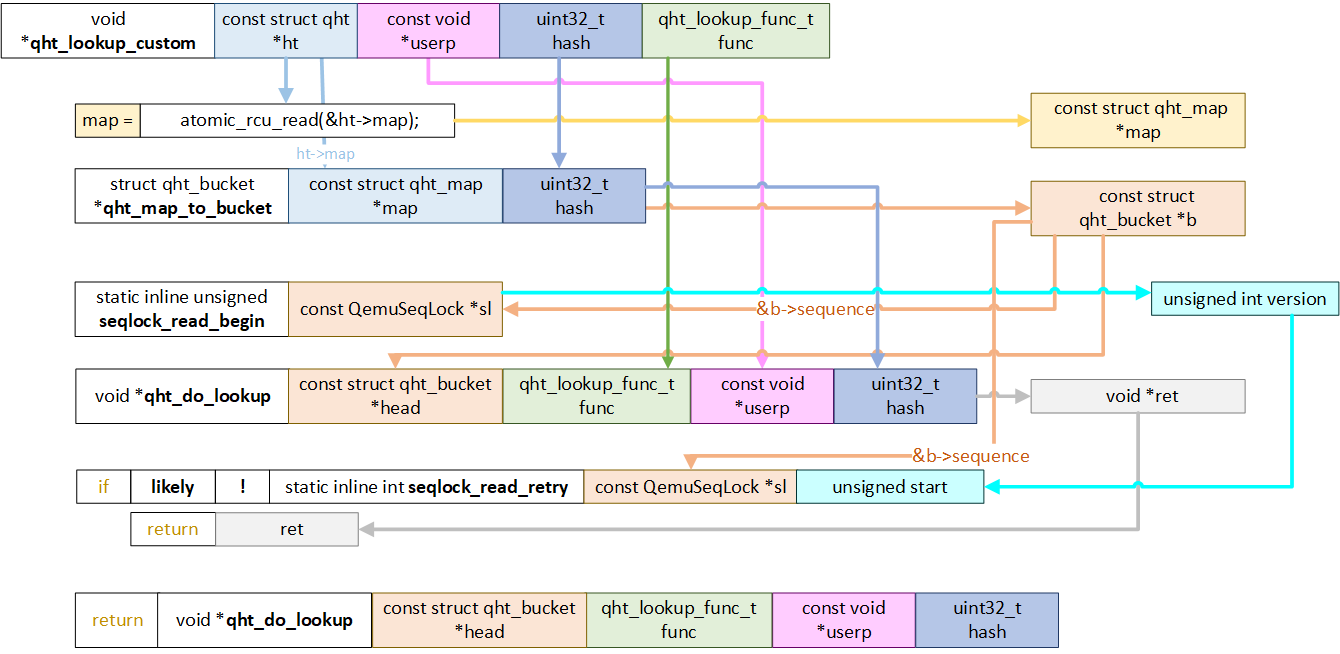
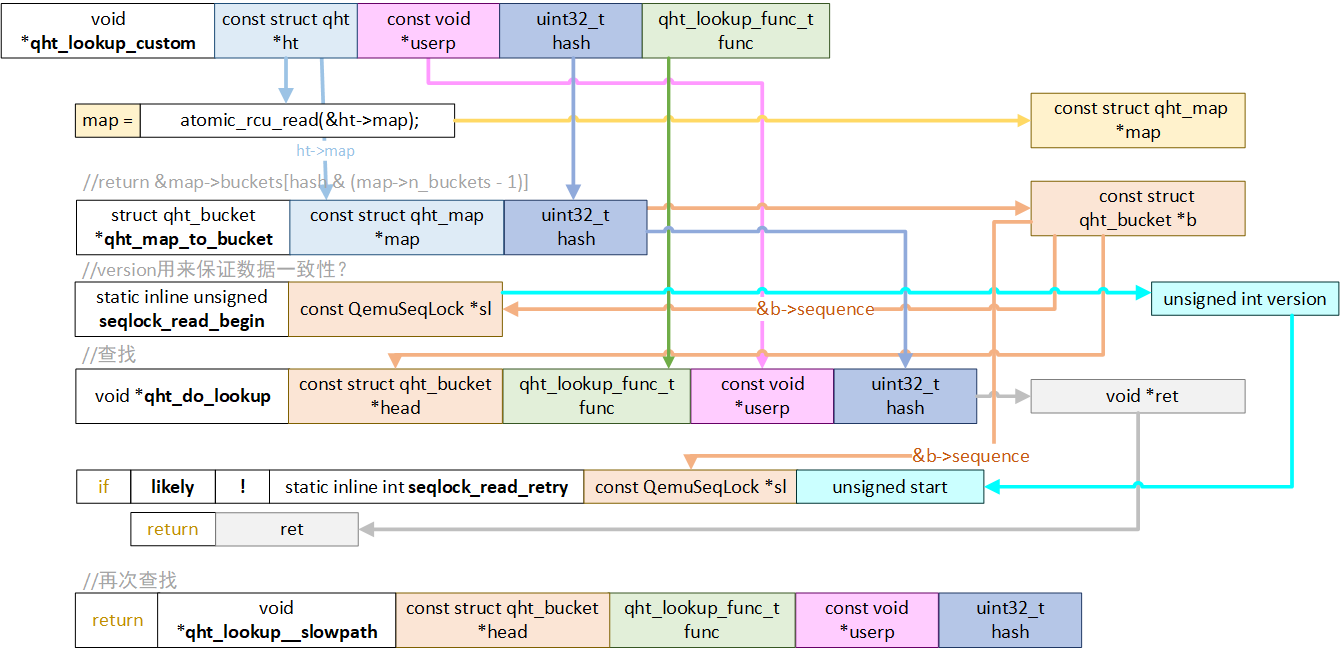
2020/11/10

diff --git a/Notes.md b/Notes.md
@@ -166,15 +166,63 @@ setjmp->while(!cpu_handle_exception)->while(!cpu_handle_interruption)->tb_find->
 
 ``htable``中最重要的部分应该是``struct qht_map *map``了，``map``有哈希桶头指针，可以通过偏移访问到hash值对应的哈希桶，其中``n_buckets``指明了有目前哈希桶的个数，为了防止溢出，使用了``return &map->buckets[hash & (map->n_buckets - 1)];``的方式来根据哈希值访问对应的哈希桶。
 
-``qht_lookup_custom``
+函数``qht_lookup_custom``
 
 <img src=".\figures\qht_lookup_custom.png" alt="qht_lookup_custom" style="zoom:50%;" />
 
+重点函数是``qht_do_lookup``，先利用这个函数寻找一个tb，之后应该是同步的操作，不是很清楚，当同步出现问题，最后用函数``qht_lookup__slowpath(b, func, userp, hash)``再次查找。
+
+问题：**Qemu同步机制是怎么实现的**？
+
+看一下``qht_do_lookup``函数
+
+<img src=".\figures\qht_do_lookup.png" alt="qht_do_lookup" style="zoom:50%;" />
+
+
+
+主题由两个循环组成，第一个循环沿着哈希桶组成的列表向后查找，第二个循环再在每个哈希桶中以哈希值为判断标准进行查找。
+
+几个问题：
+
+1. 这里接在*head后的哈希桶与之前查找的在数组中（线性地址排列）的哈希桶的区别？
+
+   猜测：同一个列表中的桶中的项有同样的``hash & (map->n_buckets - 1)``值，线性地址排列的桶属于不同列表，有不同的``hash & (map->n_buckets - 1)``值。
+
+2. 每个哈希桶中不同为什么还会有不同哈希值的项？
+
+   猜测：应该是因为填入时也是按照这个规则映射的``&map->buckets[hash & (map->n_buckets - 1)]``
+
+证实的话应该要看哈希表的填入过程。
+
+``qht_lookup__slowpath(b, func, userp, hash)``函数的实现也利用了``qht_do_lookup``
+
+<div style="font-size:3em; text-align:right;">2020.11.10</div>
+
+<img src=".\figures\qht_lookup__slowpath.png" alt="qht_lookup__slowpath" style="zoom:50%;" />
+
+``qht_lookup__slowpath``基本上是把之前的一次查找过程加了个do_while的循环，注释里有这样的几行字
+
+```
+    /*
+     * Removing the do/while from the fastpath gives a 4% perf. increase 	  * when running a 100%-lookup microbenchmark.
+     */
+```
+
+应该是说这样写会有性能提升？
 
 
 
 
 
+
+
+终于回到了函数``tb_find``，接着读``tb_gen_code``，这个函数的功能是如果没有找到tb，级第一次执行这个tb块，就进行翻译，并返回一个tb。
+
+进入这个函数之前和出这个函数之后在函数``tb_find``之中分别用了``mmap_lock``和``mmap_unlock``函数。
+
+看一下函数``tb_gen_code``
+
+这个函数好长有二百多行，慢慢看吧。
 
 
 
@@ -185,3 +233,4 @@ setjmp->while(!cpu_handle_exception)->while(!cpu_handle_interruption)->tb_find->
 把宏观微观联系起来，在微观中找到宏观特点的所指。
 
 数据结构+算法
+
